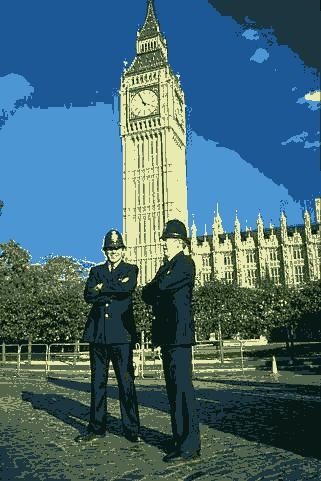
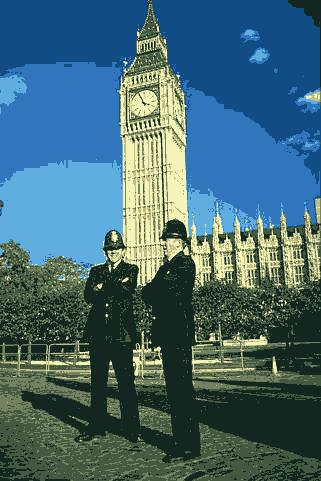
Cluster size changed

diff --git a/task2/task1.py b/task2/task1.py
@@ -77,7 +77,7 @@ if __name__ == '__main__':
     print('Compressing: ' + image_name)
     input_image = np.asarray(Image.open(image_name))
 
-    comp_db = compress_original(input_image, 7, 10, 1)
+    comp_db = compress_original(input_image, 5, 10, 1)
     comp_ch = compress_original(input_image, 8, 10, 1)
 
     Image.fromarray(comp_db).save('db_compressed_' + image_name)
